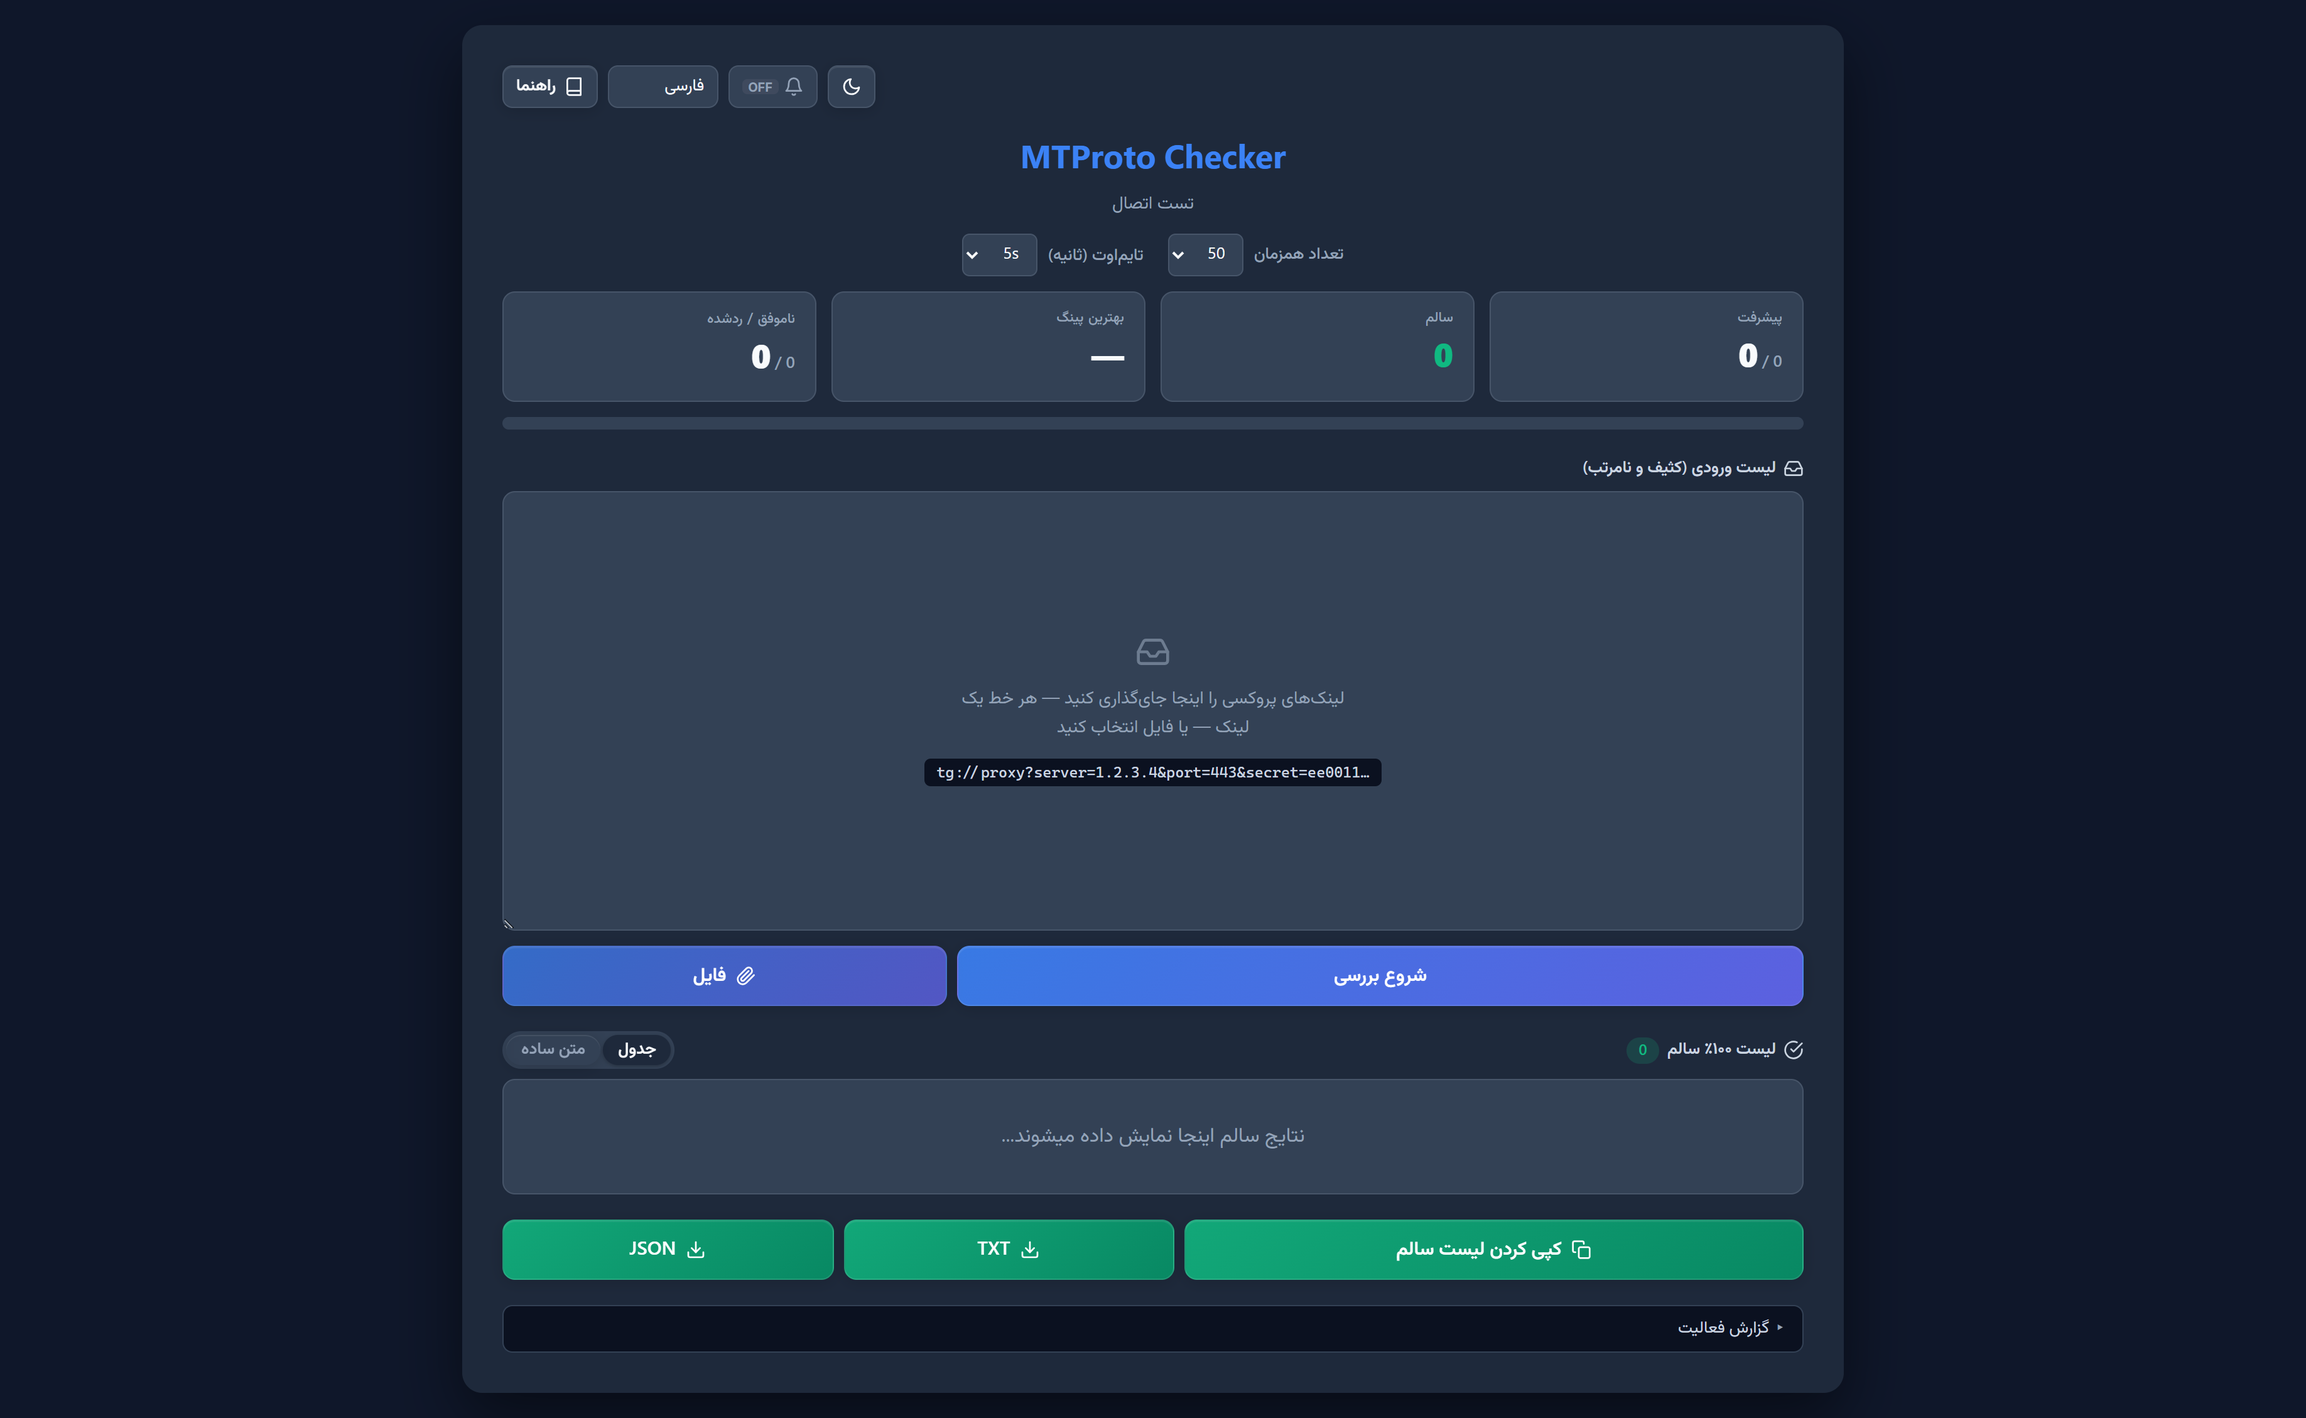
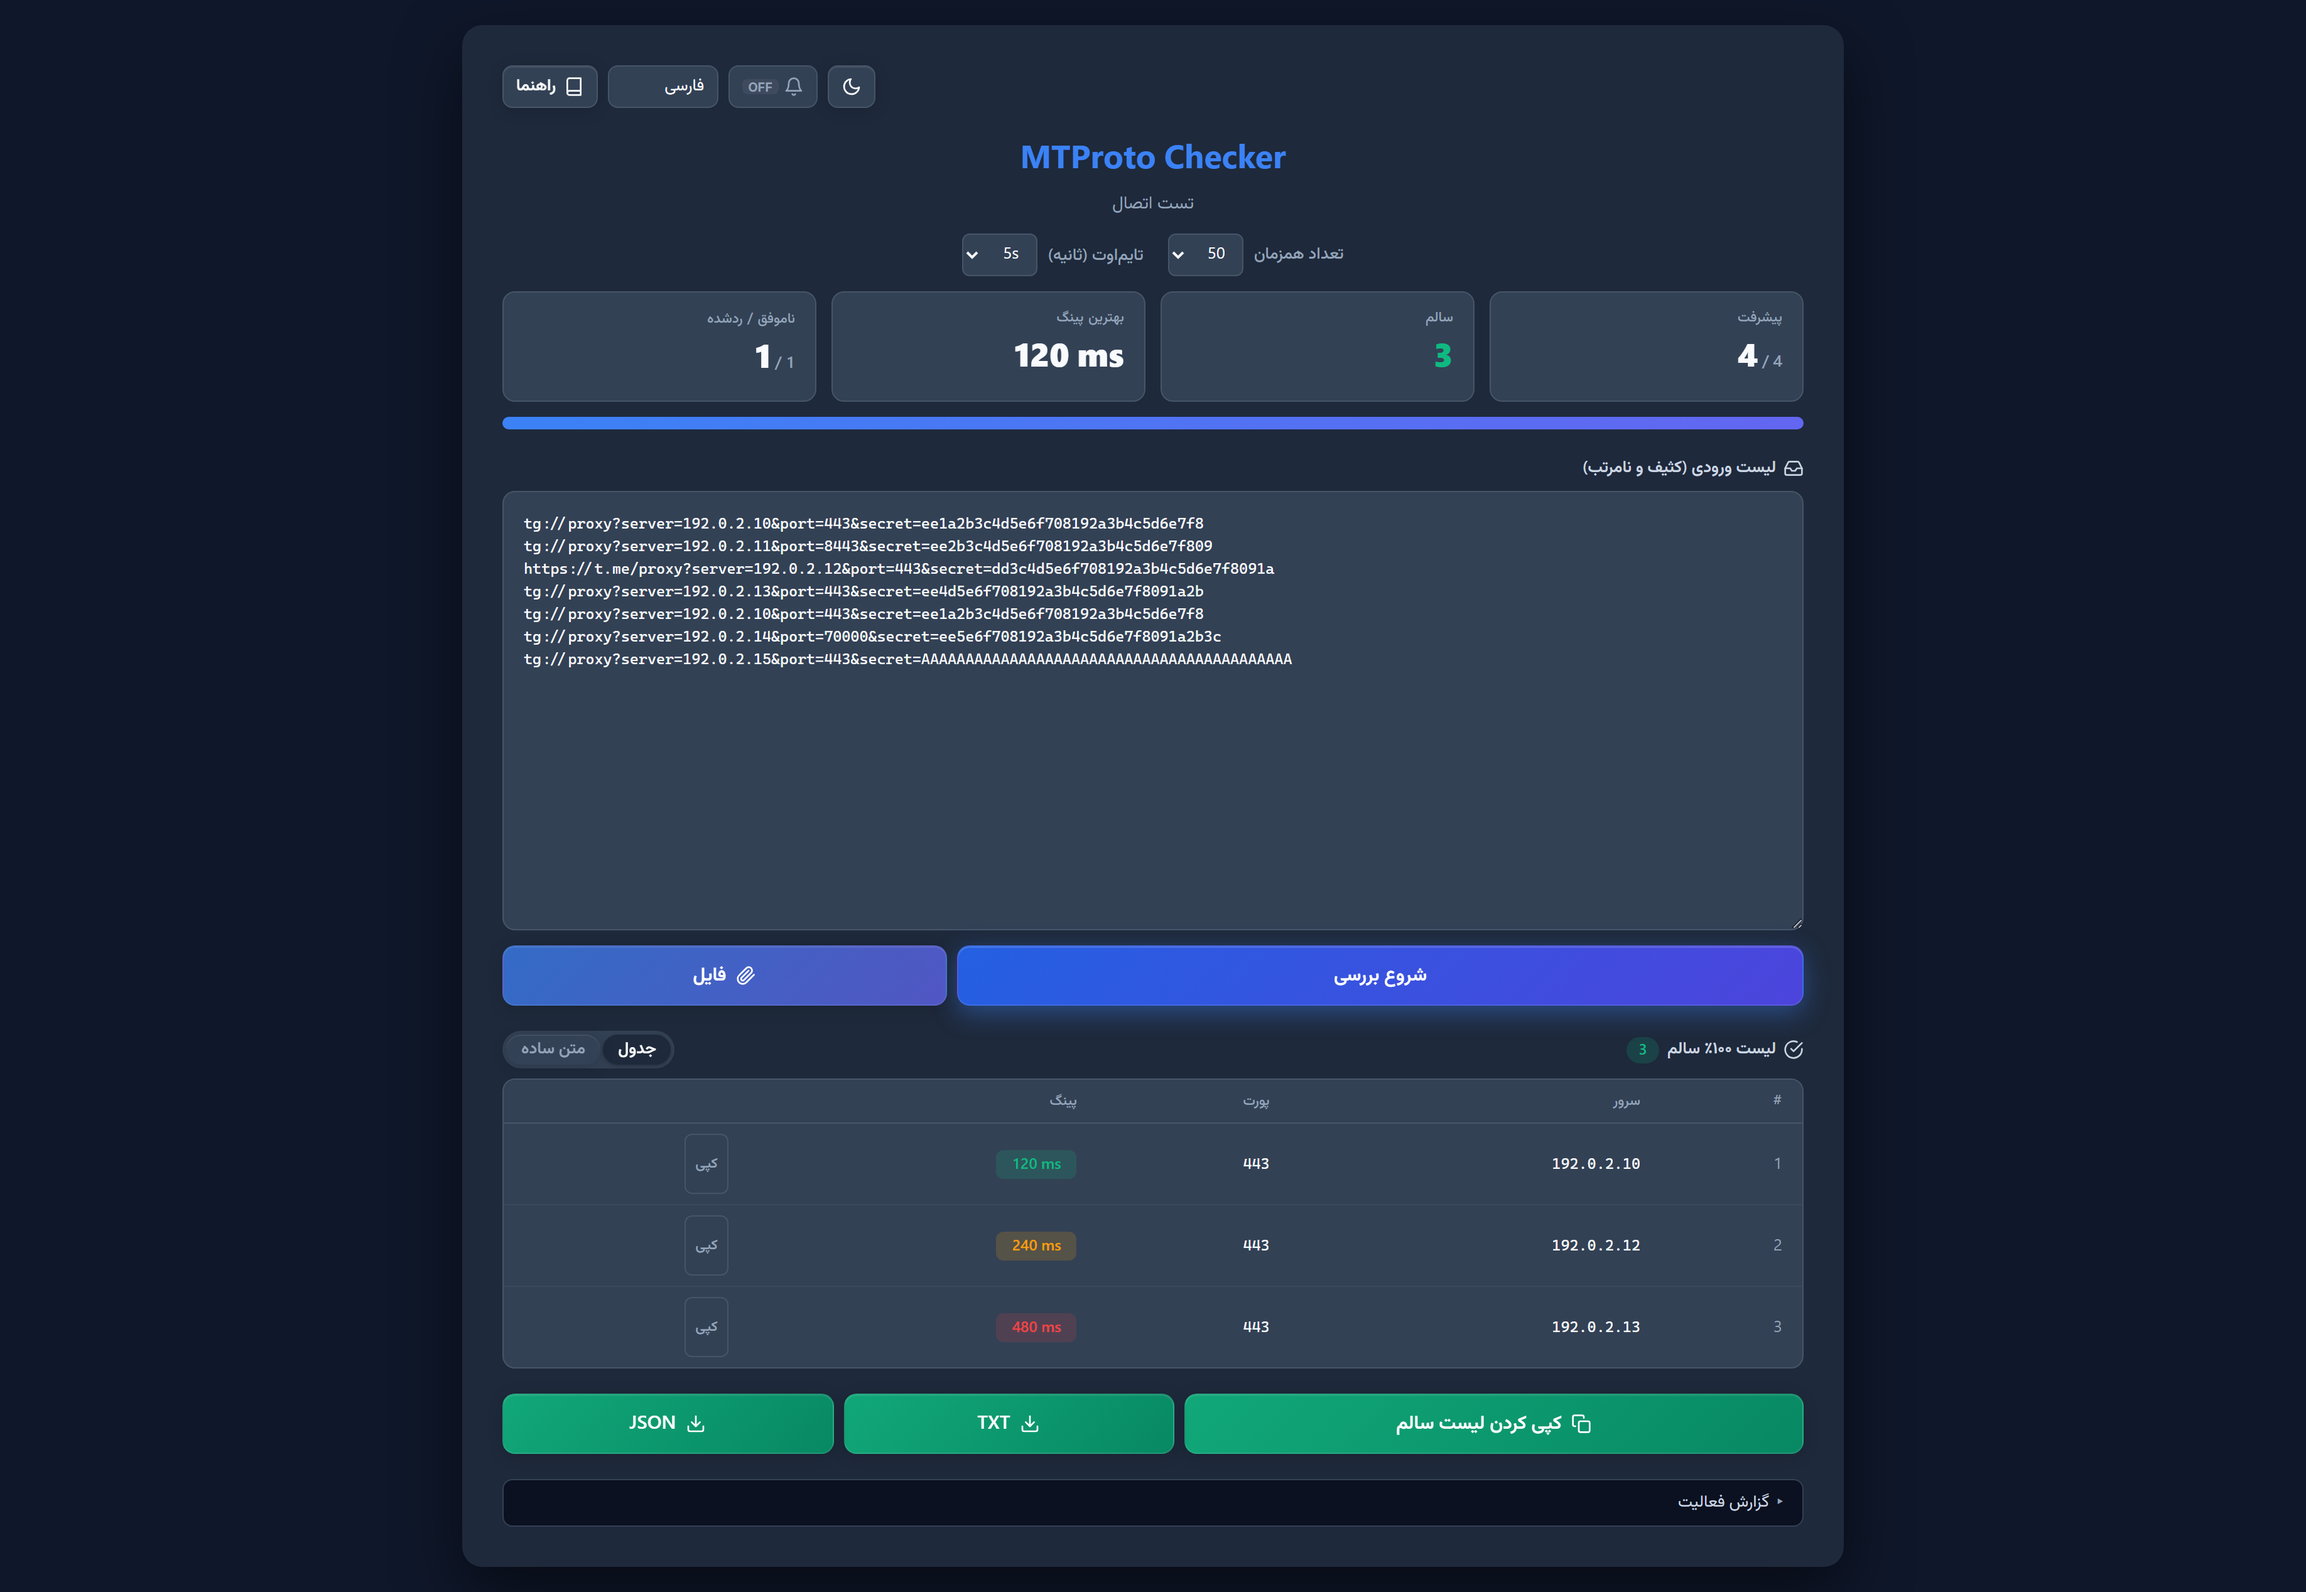
docs: retake the README screenshots against a finished scan
The four images showed the empty state, which hides the half of the UI
worth looking at: the stat tiles, the sorted results table and the three
ping colour bands. All four now show a completed run, one per locale.

They are captured from the real page with /check-stream answered from
tests/fixtures/sse-progress.txt, so every address is from the RFC 5737
documentation range and the pings match what scan.spec.js asserts. No
live proxy appears in them.

scripts/screenshots.mjs is the capture script. It does not boot the
server itself the way the e2e suite does -- retaking is meant to be
looked at, not run unattended.

The Known-drift entry claiming these were stale is removed: it had been
wrong since abe2990, which already retook them against the settled
design. What was actually stale was the entry.

diff --git a/CLAUDE.md b/CLAUDE.md
@@ -113,7 +113,8 @@ Single-process Go server (`main.go`, ~600 lines) + vanilla-JS frontend embedded 
 - Commits follow Conventional Commits: `feat`/`fix`/`chore`/`build`/`refactor`, optional scope — `feat(i18n):`, `fix(release):`, `refactor(frontend):`.
 - Trailer convention: Claude-assisted commits carry `Co-Authored-By: Claude Fable 5 <noreply@anthropic.com>` (plus a human co-author trailer when someone else's work is being landed); hand-made commits carry none. The mixed history is deliberate attribution, not drift — don't add or strip trailers retroactively.
 - Contributions from forks must be rebased onto current `main` or cherry-picked — never merged with the GitHub merge button. Older forks carry a divergent history.
-- Key files: `main.go` (server, all handlers) · `public/index.html` (markup, `<head>` paint bootstrap, no inline handlers) · `public/js/app.js` (entry point) + `{i18n,parse,render,sse,state,format}.js` · `public/css/{tokens,base,components}.css` (load order matters) · `main_test.go` + `proxytest_test.go` (Go tests) · `package.json` + `tests/` + `playwright.config.js` (JS tests) · `SPEC.md` (the frontend-test contract) · `.github/workflows/{test,release}.yml`.
+- Key files: `main.go` (server, all handlers) · `public/index.html` (markup, `<head>` paint bootstrap, no inline handlers) · `public/js/app.js` (entry point) + `{i18n,parse,render,sse,state,format}.js` · `public/css/{tokens,base,components}.css` (load order matters) · `main_test.go` + `proxytest_test.go` (Go tests) · `package.json` + `tests/` + `playwright.config.js` (JS tests) · `SPEC.md` (the frontend-test contract) · `scripts/screenshots.mjs` (README images) · `.github/workflows/{test,release}.yml`.
+- `images/screenshot{,_fa,_ru,_zh}.png` are taken from the real page at 1836 CSS px, 2× DPR, one per locale, showing a **finished scan**: filled tiles, three sorted rows, all three ping colour bands. `/check-stream` is answered from `tests/fixtures/sse-progress.txt`, so every address is from the RFC 5737 documentation range and the pings match what `scan.spec.js` asserts — no live proxy has ever appeared in them, and retaking must keep it that way. `scripts/screenshots.mjs` retakes all four: start the server yourself (`go run .`), then `node scripts/screenshots.mjs`. It deliberately does *not* boot the server the way the e2e suite does — retaking is meant to be looked at, not run unattended.
 - Four READMEs (`README.md`, `_FA`, `_RU`, `_ZH`) are intended to be kept in sync — not verified, and they already differ in length (`README_FA.md` is 77 lines against 85 for the other three). The in-app Help button opens the one matching the current UI language.
 
 ## Known drift and defects (current state — do not "fix" as a side effect)
@@ -125,7 +126,7 @@ The READMEs describe intent, and parts have drifted from the code. Verify agains
 - **The Go tests depend on a proxy list that is not in the repo.** `main_test.go` and `proxytest_test.go` read `testdata/proxies.txt` and `t.Skip` when it is absent, so `go test ./...` is largely a no-op on a fresh clone. The JS suites have no such dependency — they run from a synthetic fixture.
 - **No Go HTTP handler tests.** No Go test uses `httptest`; `/check`, `/check-batch` and `recoverMiddleware` have zero coverage. `checkProxy` is exercised only by a live-network test that skips when the local proxy list is absent. `/check-stream` is the exception, and only from the outside: the Playwright specs drive the real server, though `scan.spec.js` intercepts the endpoint and only the `E2E_LIVE` smoke test lets a request through to it.
 - **The activity-log drawer opens by itself during a scan**, even with nothing logged as an error. Chrome auto-expands a closed `<details>` when script scrolls a descendant, and `log()` has always ended with `c.scrollTop = c.scrollHeight`. Predates the ESM refactor — present on `main` too.
-- **`images/screenshot*.png` are stale again** after the results-workbench restructure (stat tiles, collapsing input zone, table/plain-text results panel, console drawer) — they still show the old status-line/two-textarea layout.
+Screenshots were listed here as stale until 2026-08-09; they are not, and the entry had been wrong since `abe2990`. See Repo conventions for how they are taken now.
 
 Every item above is documentation of current state. Fixes go through brainstorming → plan first, not opportunistic edits.
 
